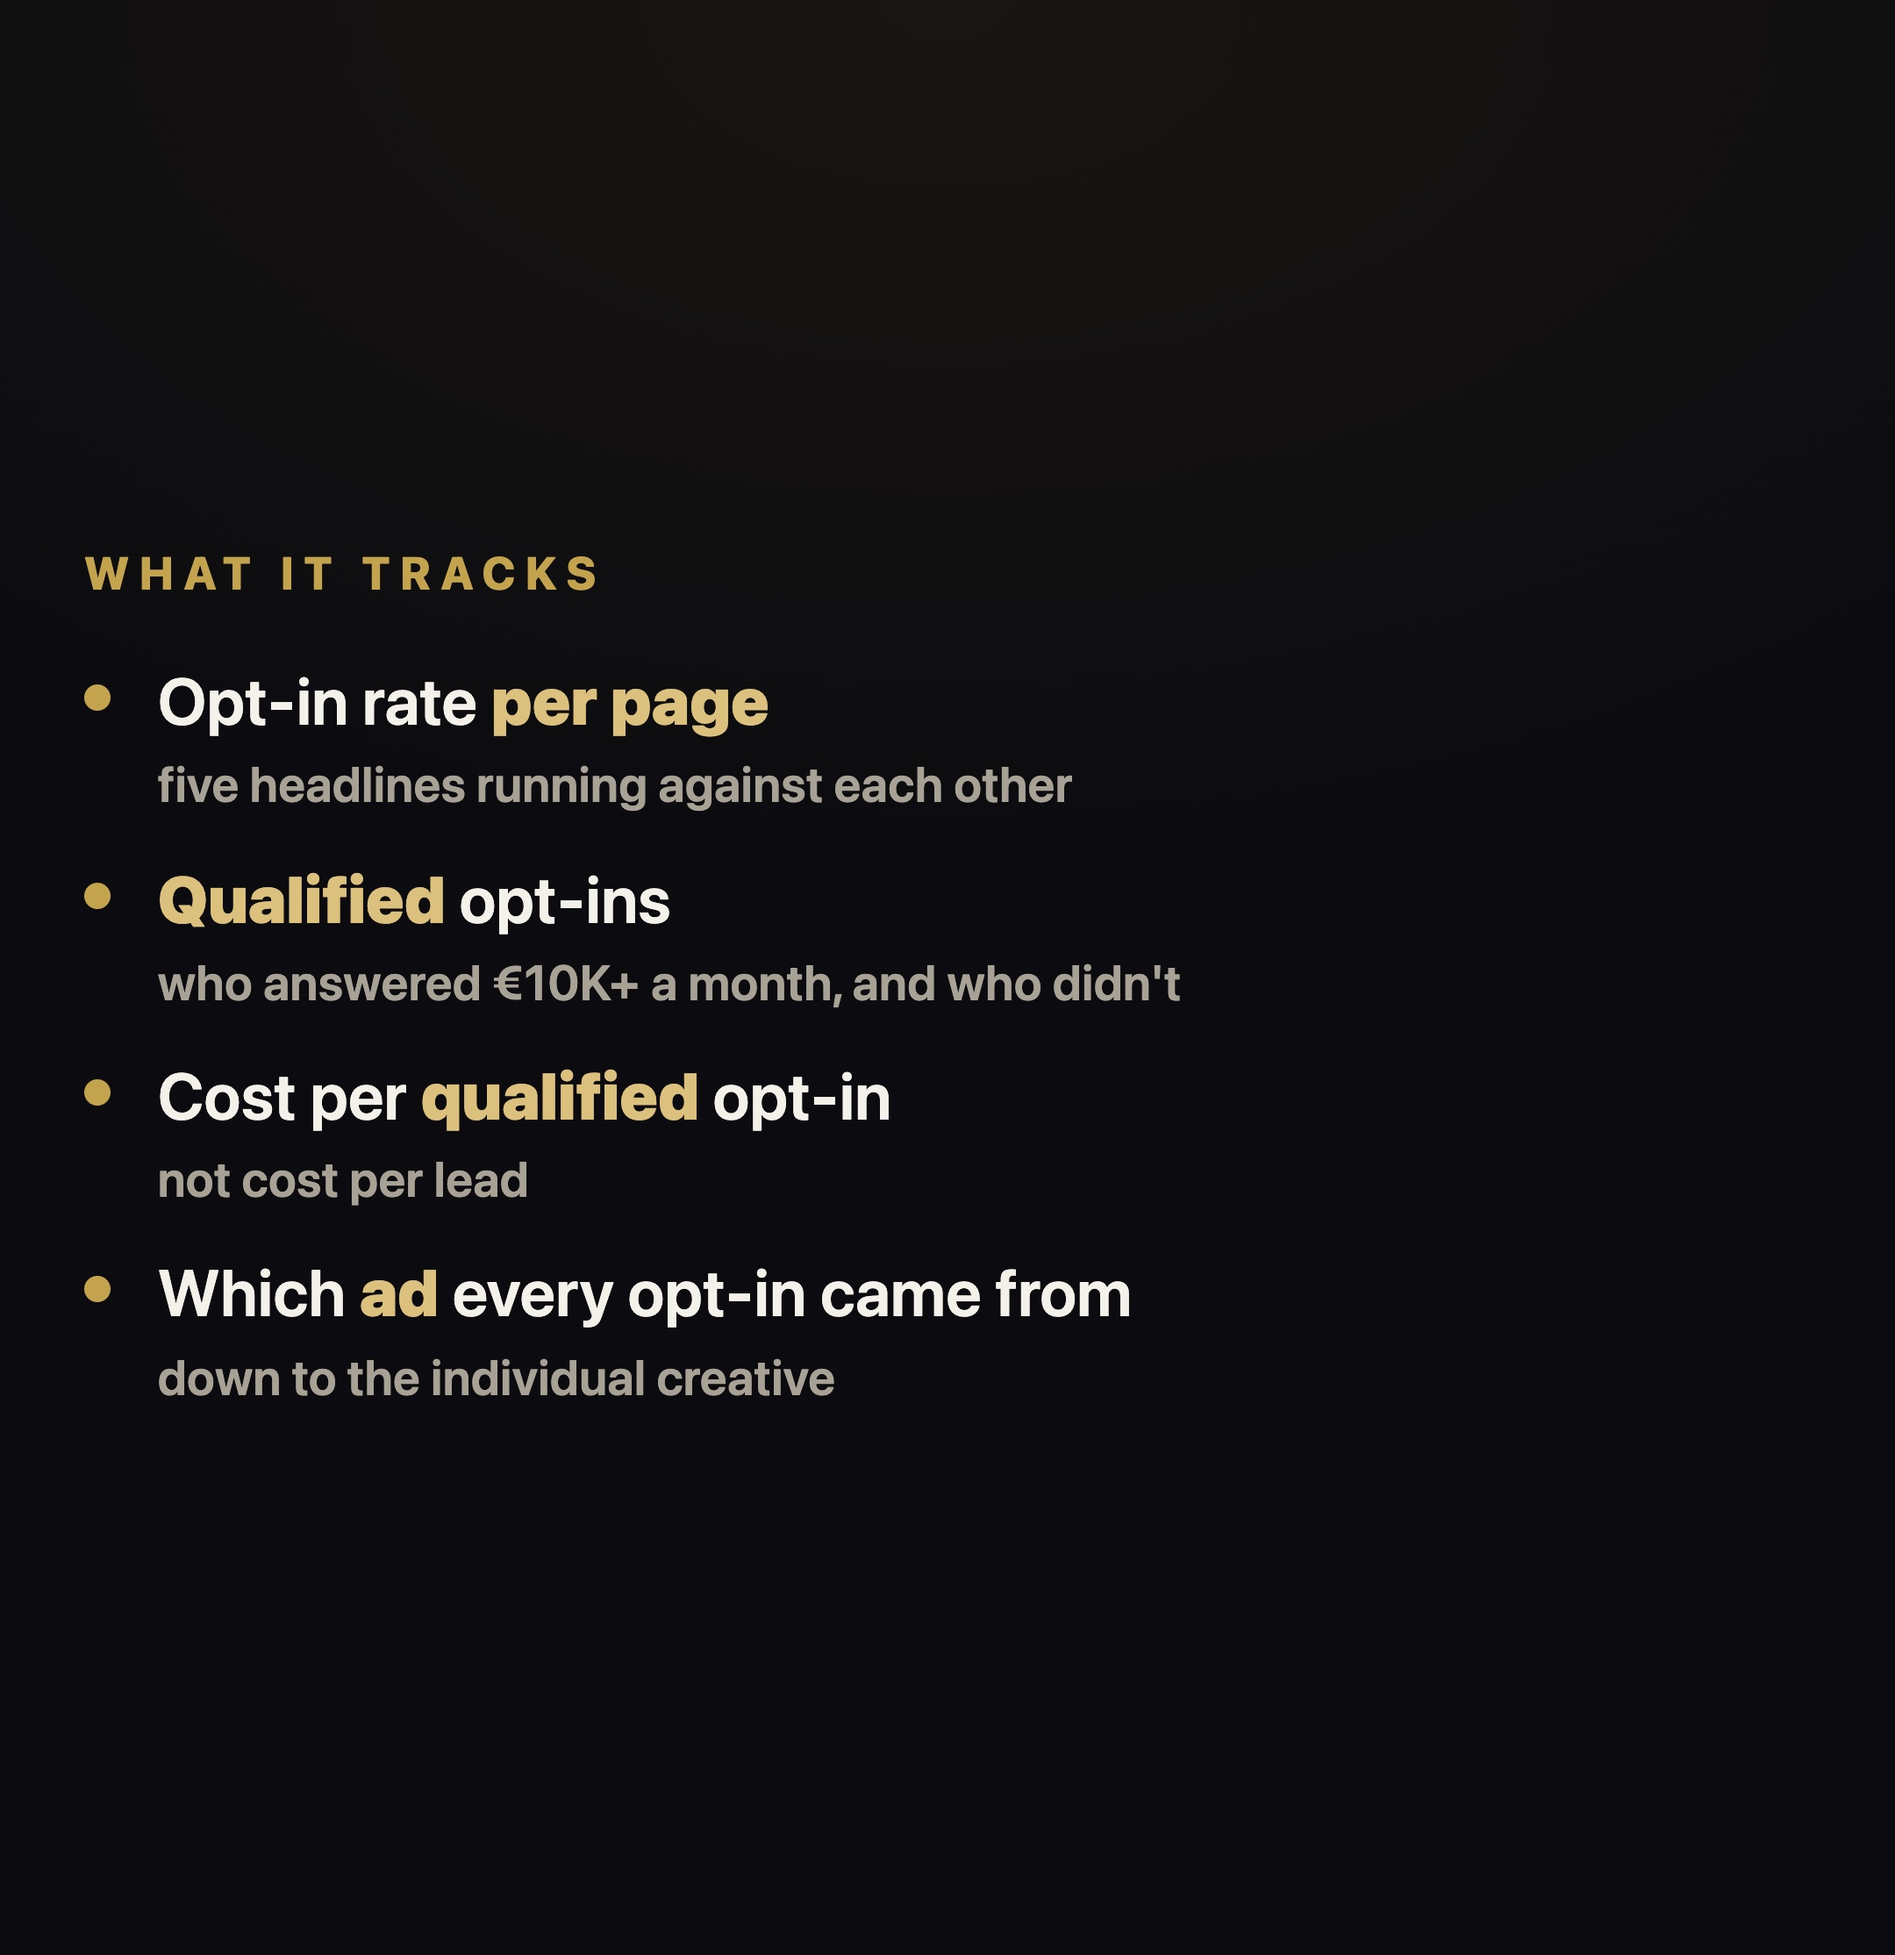
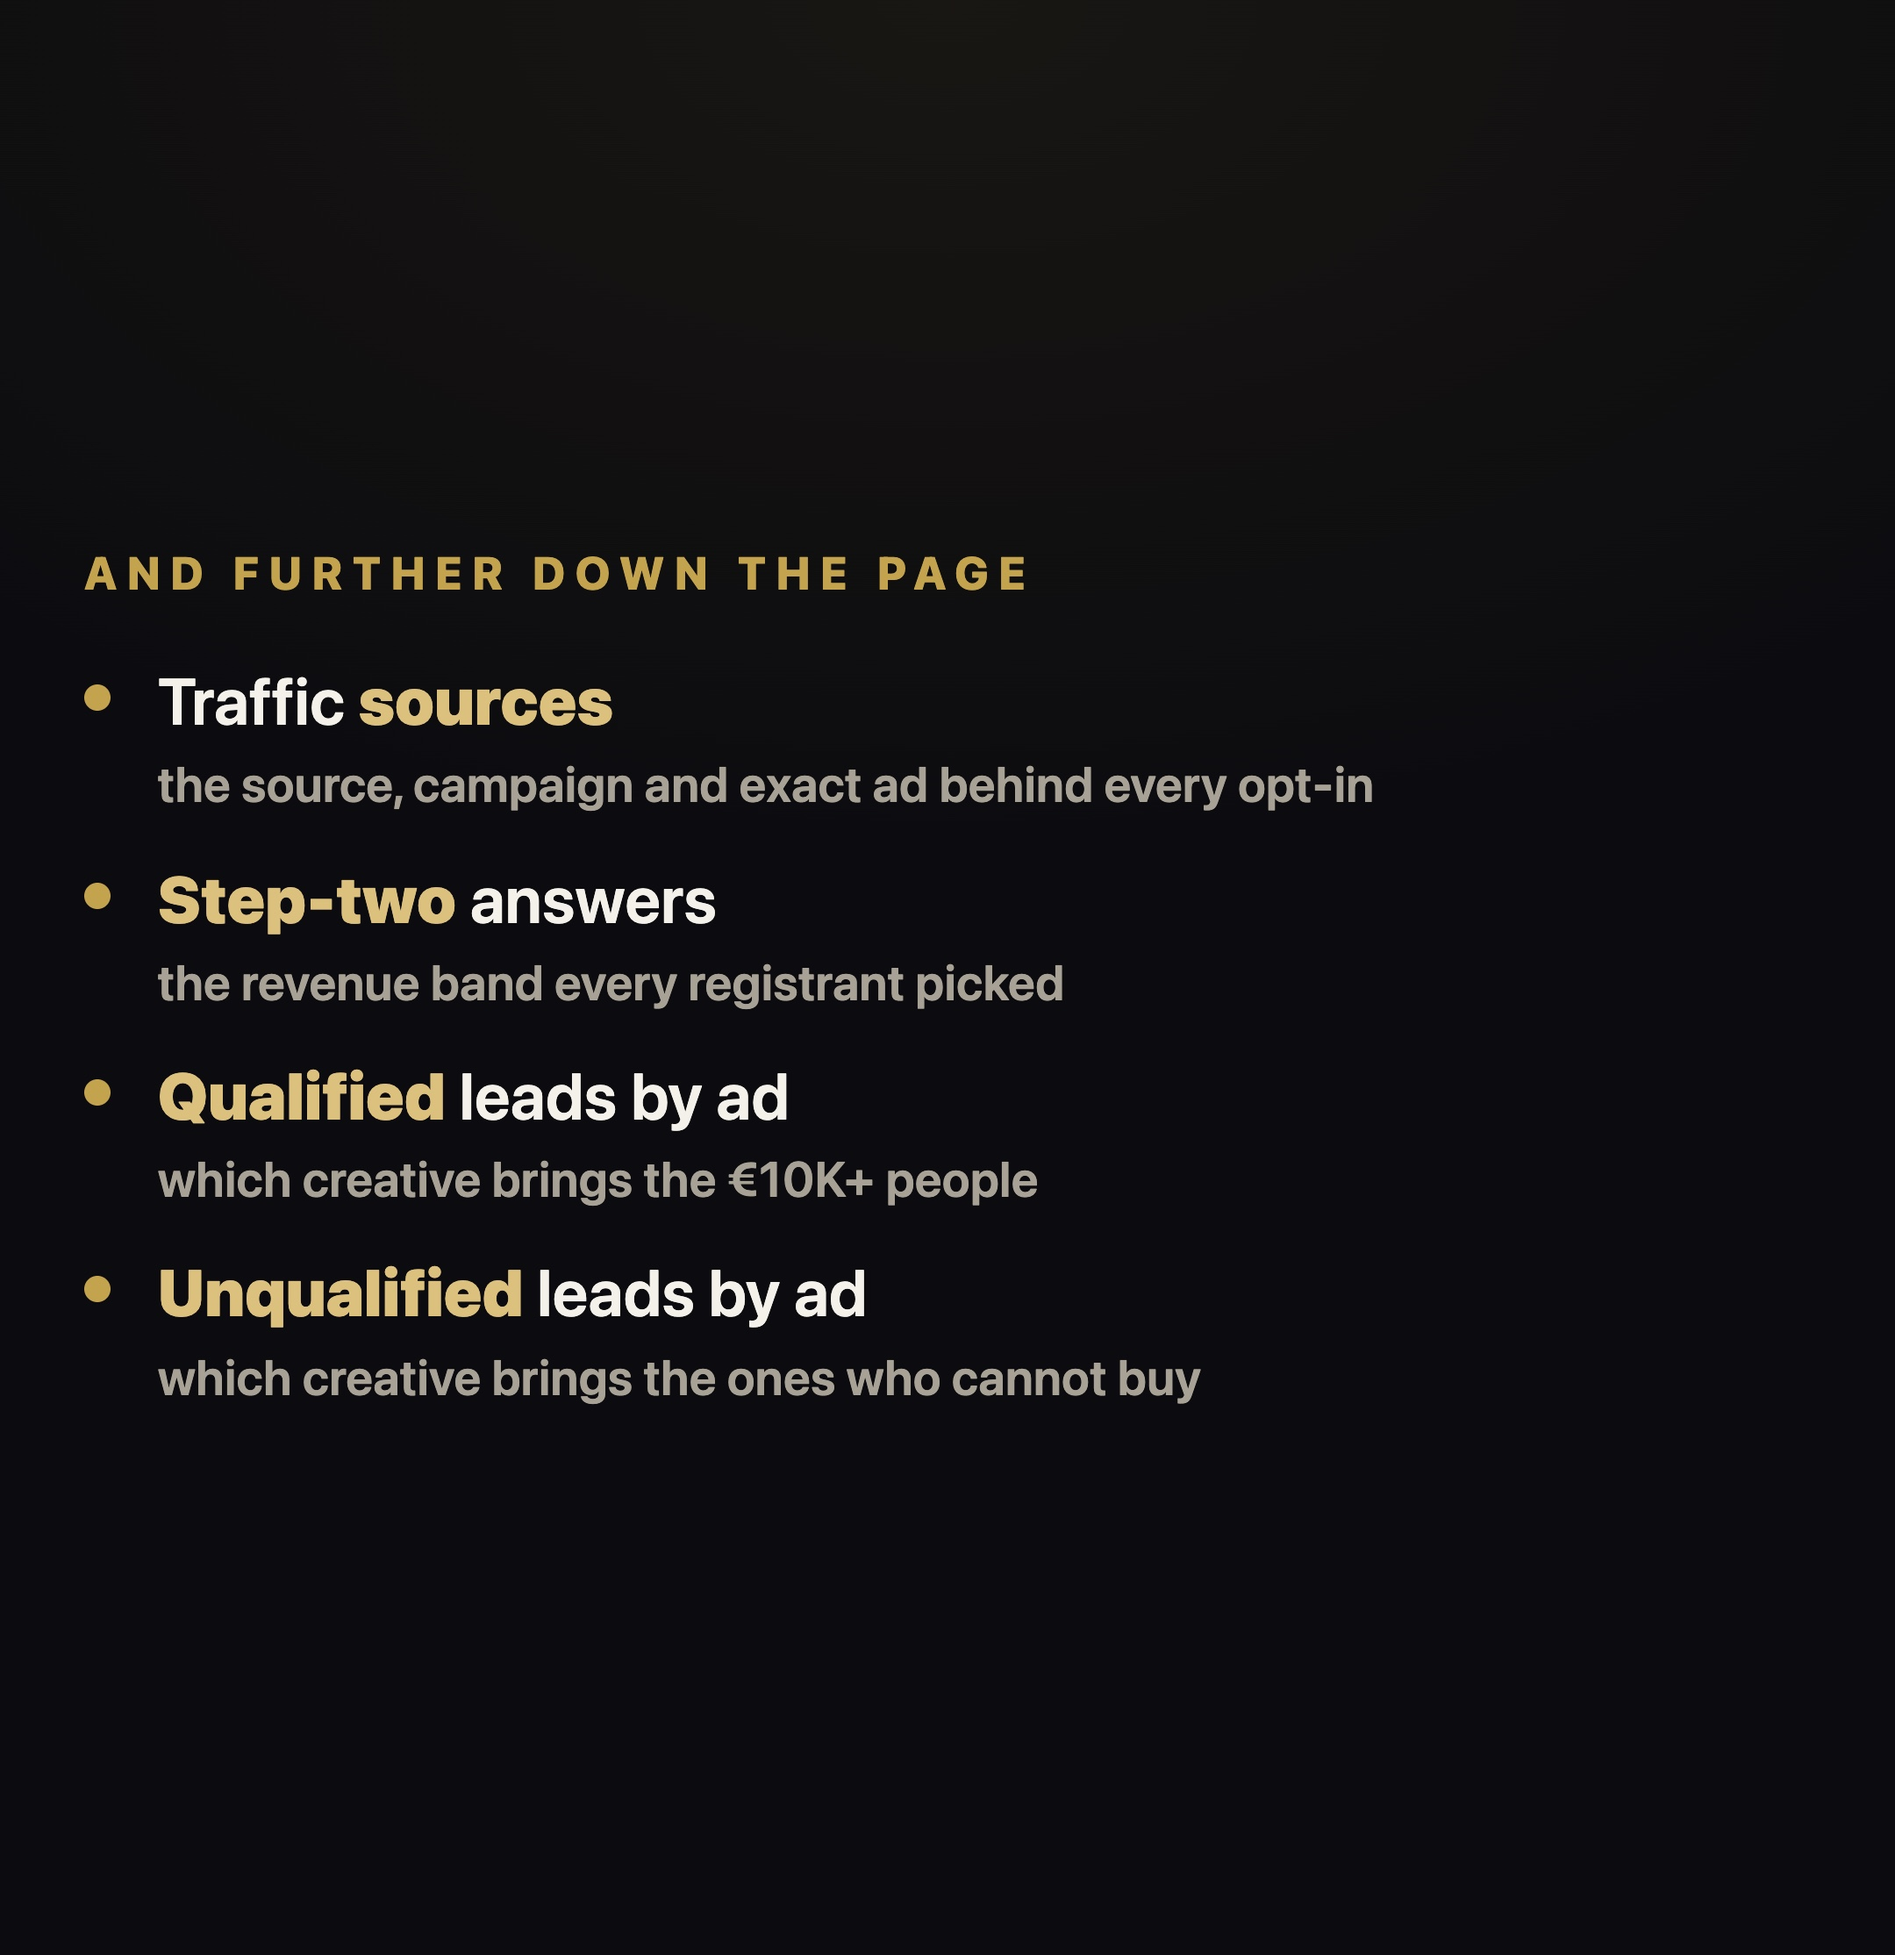
Slide 19: the sections further down the analytics page, not a restatement of slide 18

Changed region(s): [[0.062, 0.3407, 0.7134, 0.6194], [0.062, 0.6504, 0.6204, 0.7123], [0.031, 0.2787, 0.5583, 0.3097]]

diff --git a/frames-funnel.html b/frames-funnel.html
@@ -270,12 +270,12 @@
 </div>
 
 <div class="f" id="g13" style="padding:52px 48px">
-  <div class="eb">What it tracks</div>
+  <div class="eb">And further down the page</div>
   <ul class="pts">
-    <li>Opt-in rate <b>per page</b><small>five headlines running against each other</small></li>
-    <li><b>Qualified</b> opt-ins<small>who answered &euro;10K+ a month, and who didn't</small></li>
-    <li>Cost per <b>qualified</b> opt-in<small>not cost per lead</small></li>
-    <li>Which <b>ad</b> every opt-in came from<small>down to the individual creative</small></li>
+    <li>Traffic <b>sources</b><small>the source, campaign and exact ad behind every opt-in</small></li>
+    <li><b>Step-two</b> answers<small>the revenue band every registrant picked</small></li>
+    <li><b>Qualified</b> leads by ad<small>which creative brings the &euro;10K+ people</small></li>
+    <li><b>Unqualified</b> leads by ad<small>which creative brings the ones who cannot buy</small></li>
   </ul>
 </div>
 

diff --git a/index.html b/index.html
@@ -123,7 +123,7 @@
         {img:'img/t4.jpg', s:"Step three, add it to the calendar."},
         {img:'img/t5.jpg', s:"Step four, check the confirmation email."},
         {img:'img/g12.jpg', s:"And every one of those pages reports into here. A custom analytics page, live, built for the client."},
-        {img:'img/g13.jpg', s:"Opt-in rate per page. How many said ten grand a month. Cost per qualified opt-in, not per lead. And which ad every single one came from."},
+        {img:'img/g13.jpg', s:"Further down, the source and the exact ad behind every opt-in. What they answered on step two. And which creative brings the ten-grand-plus people, and which one brings the ones who cannot buy."},
         {img:'img/g14.jpg', s:"Comment FUNNEL and I'll send you our opt-in form SOPs."}
       ]
     },
